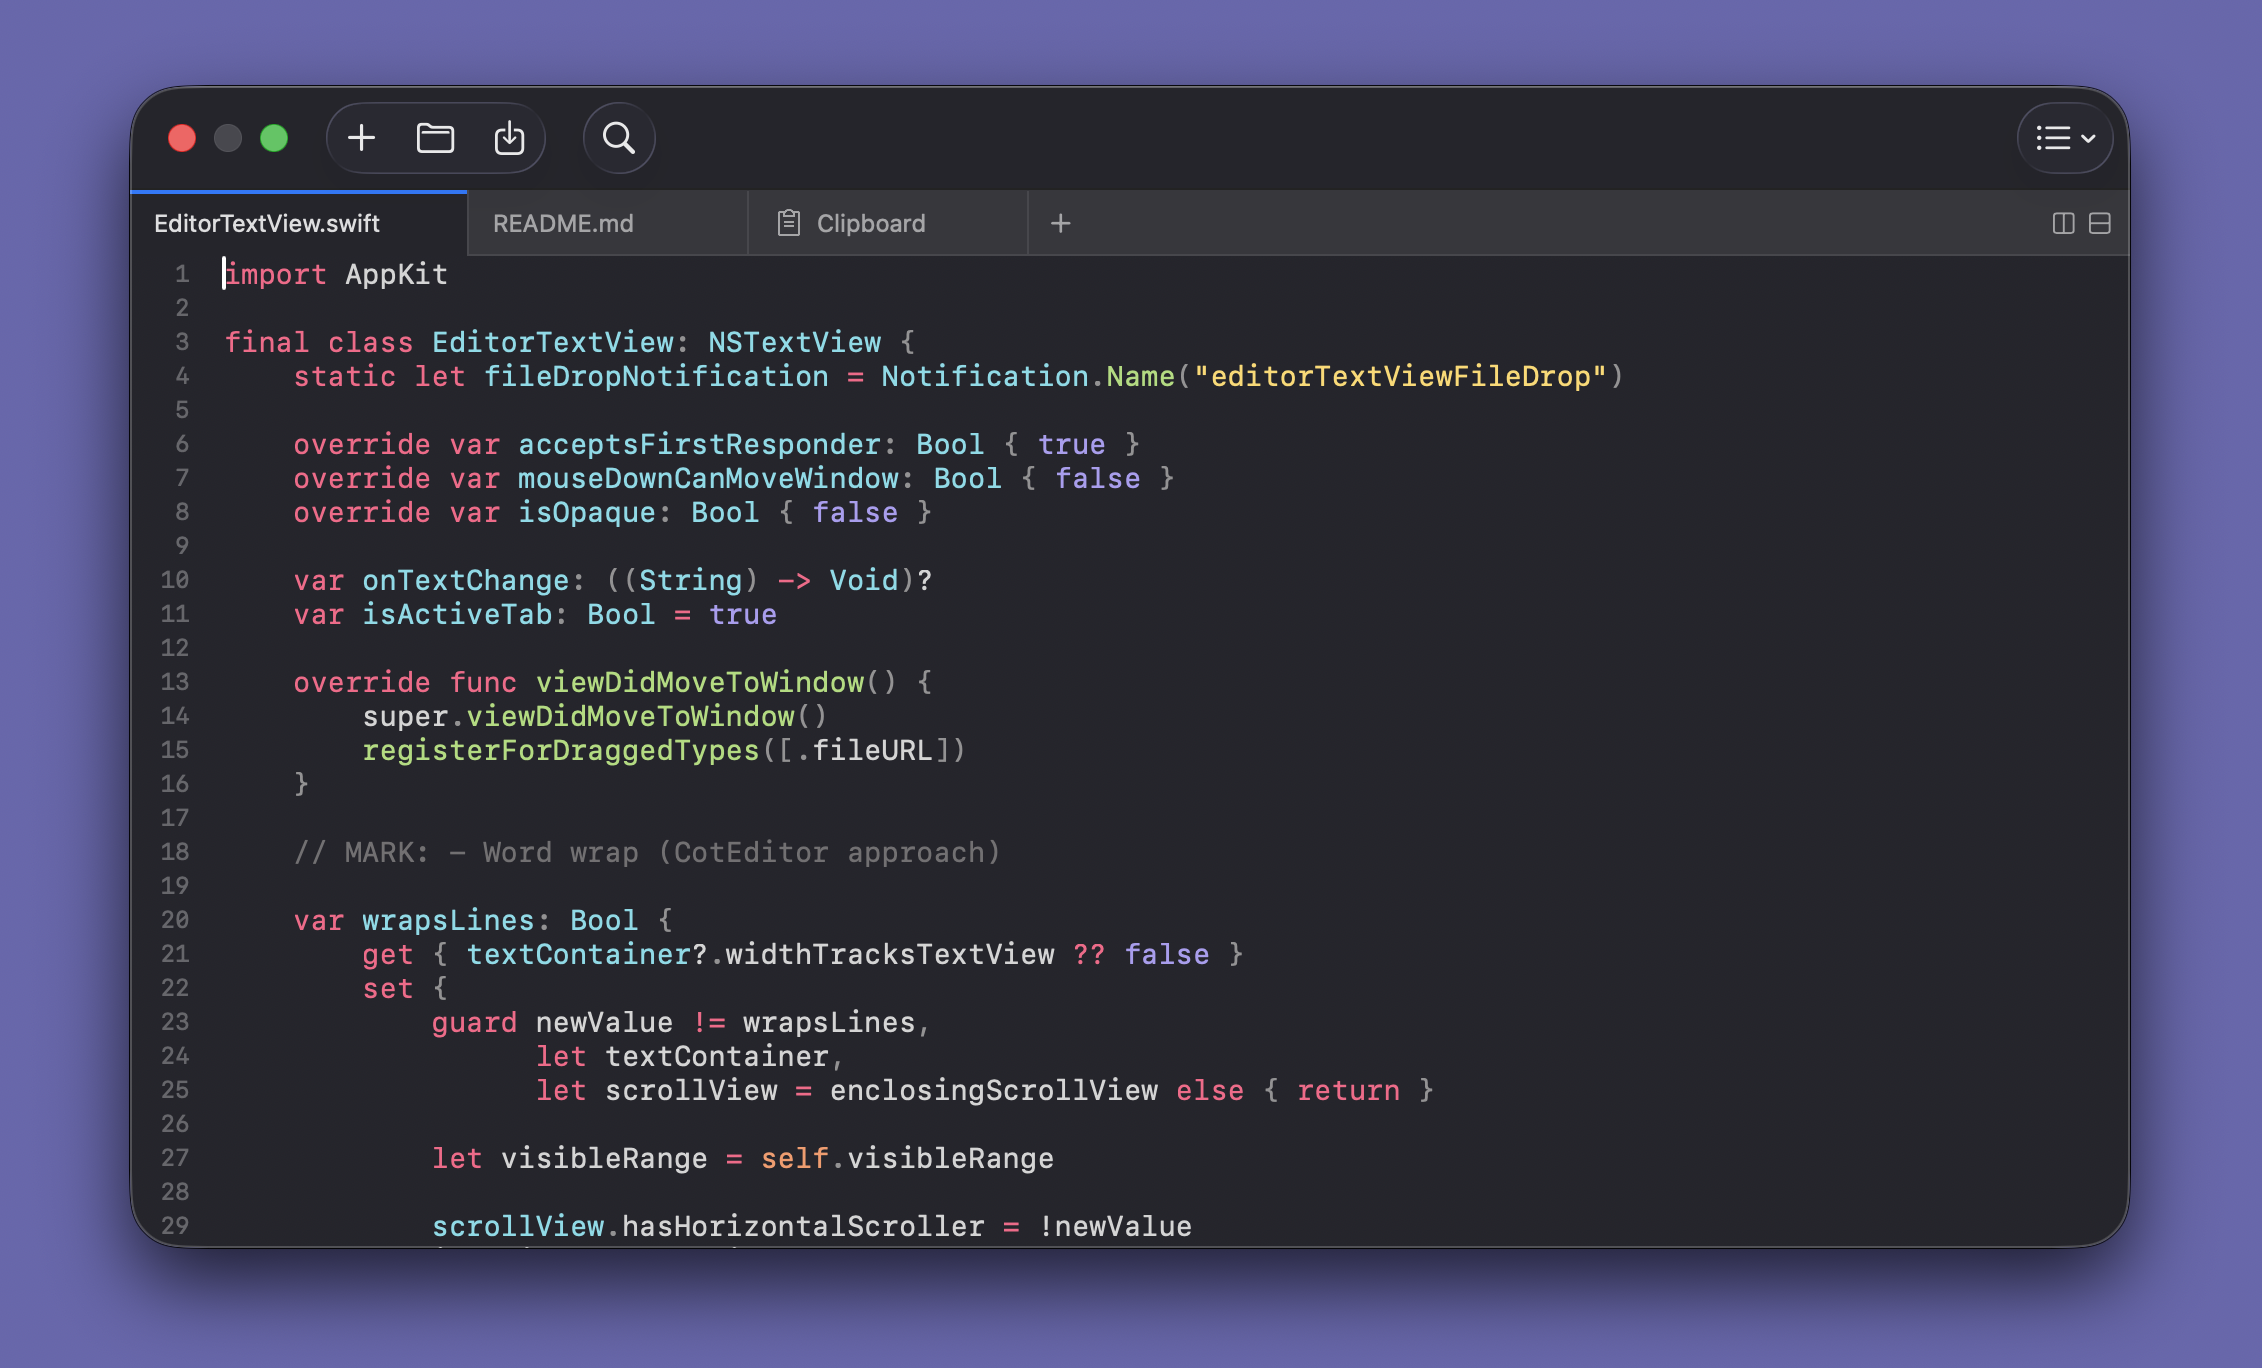
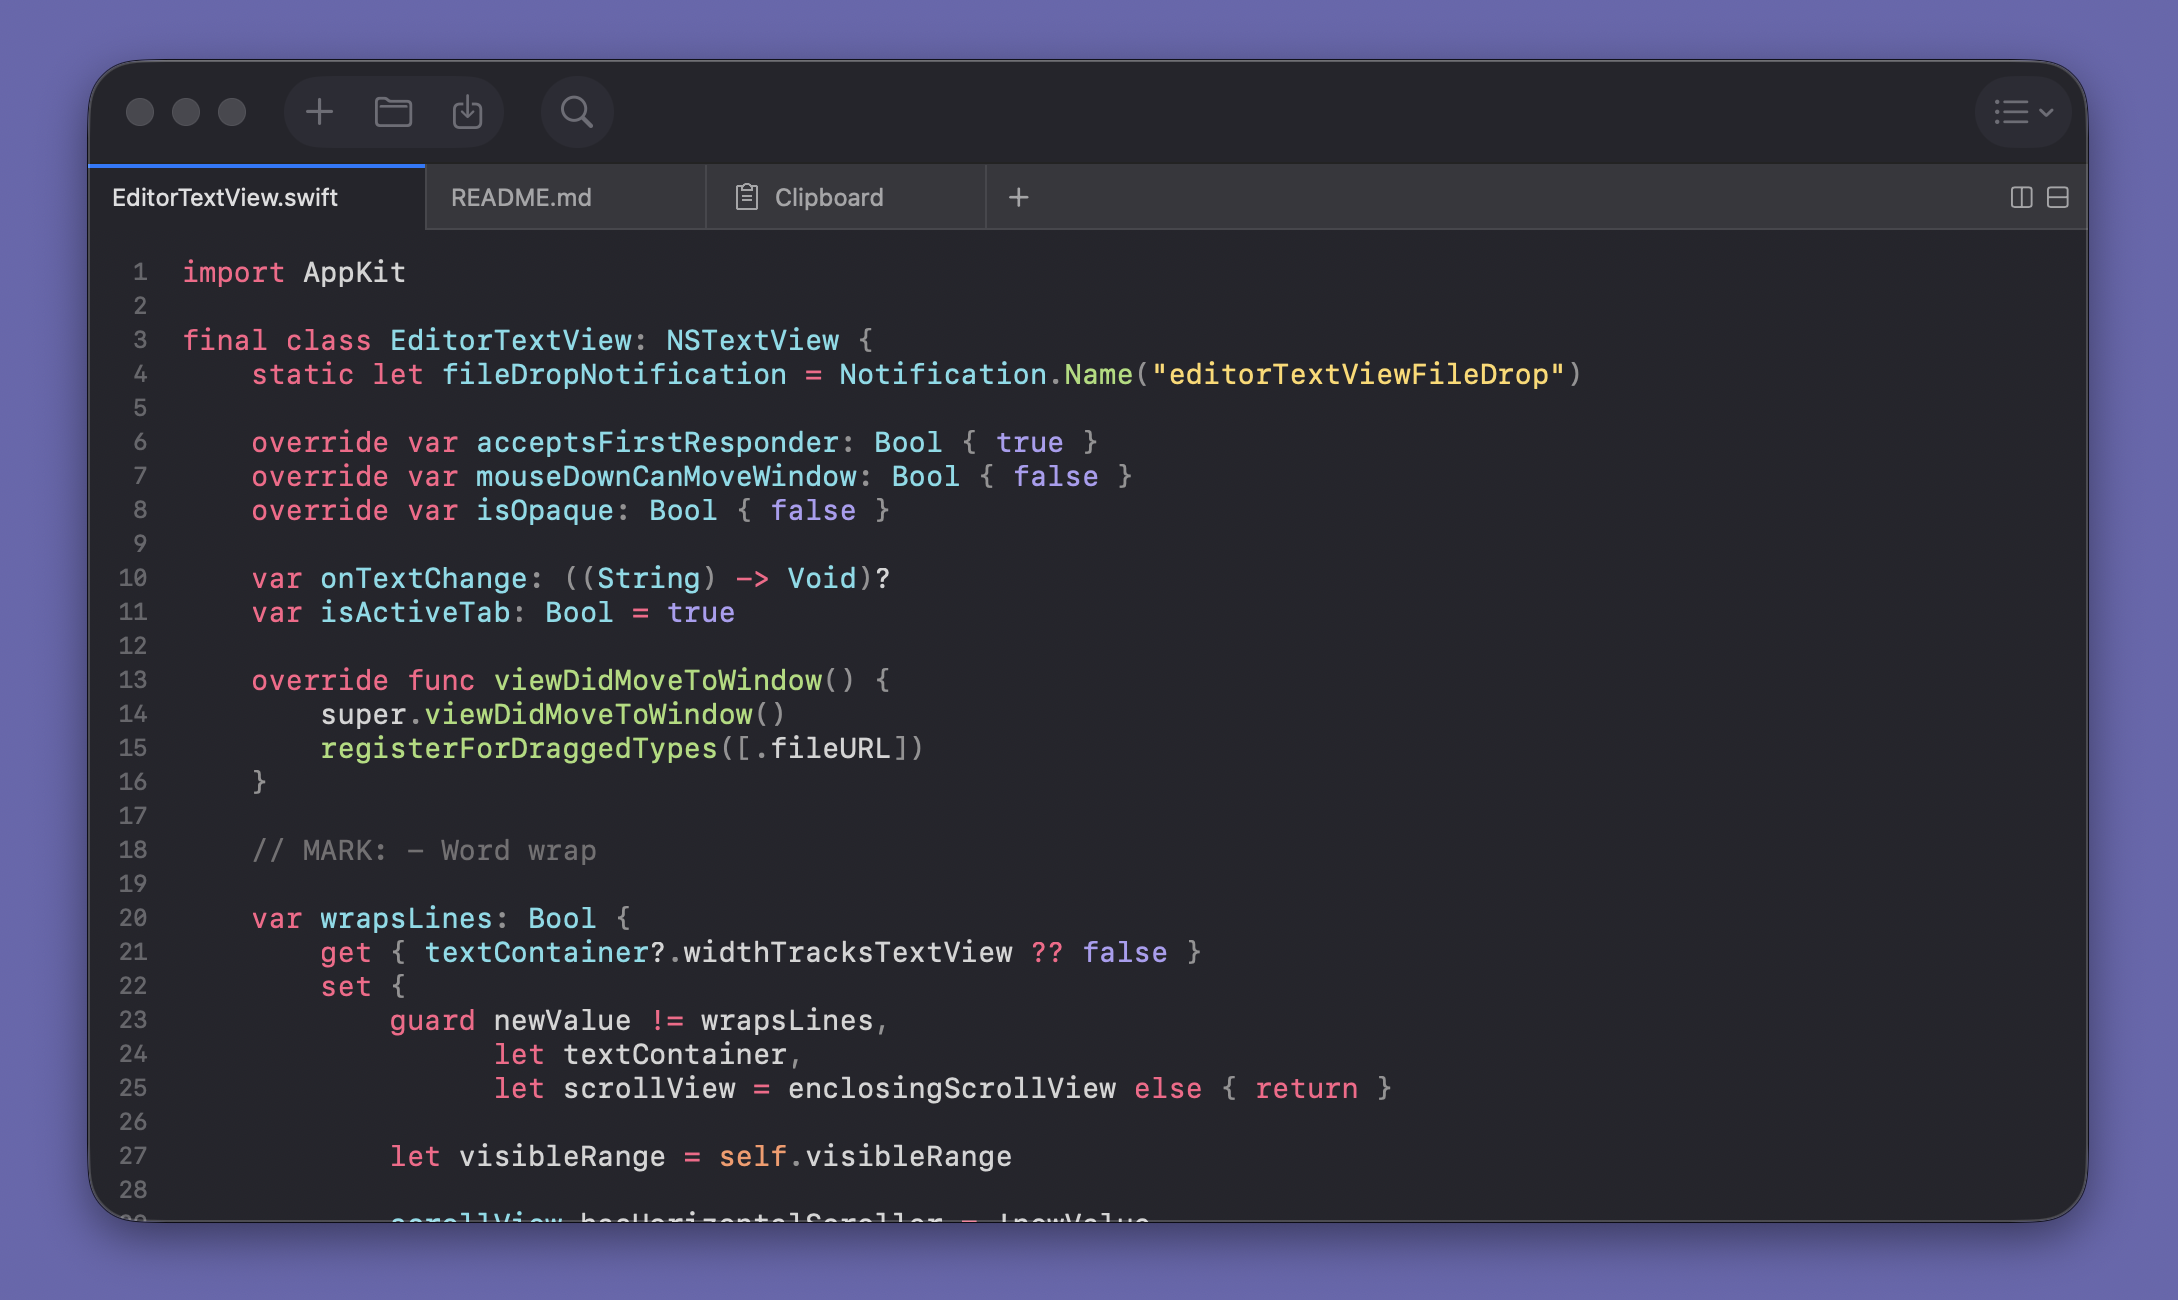
Update screenshot and clean up comment

Changed region(s): [[0.0312, 0.0308, 0.9679, 0.9538], [0.3434, 0.1231, 0.4059, 0.1846], [0.4995, 0.6769, 0.5308, 0.7385]]

diff --git a/Sources/Editor/EditorTextView.swift b/Sources/Editor/EditorTextView.swift
@@ -15,7 +15,7 @@ final class EditorTextView: NSTextView {
         registerForDraggedTypes([.fileURL])
     }
 
-    // MARK: - Word wrap (CotEditor approach)
+    // MARK: - Word wrap
 
     var wrapsLines: Bool {
         get { textContainer?.widthTracksTextView ?? false }
